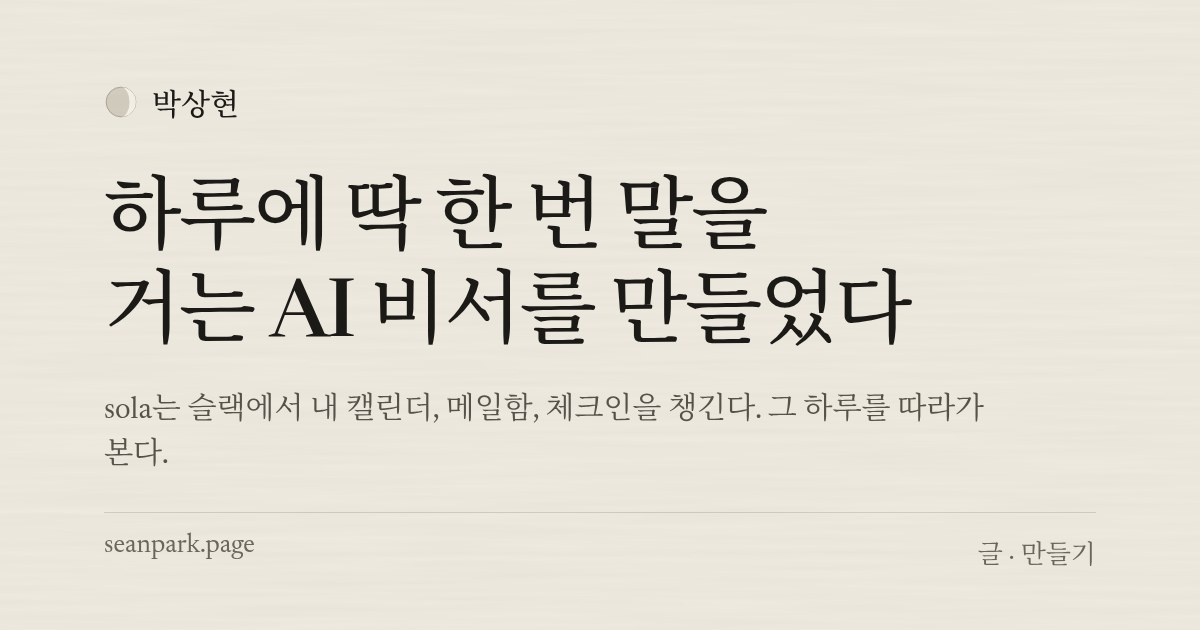
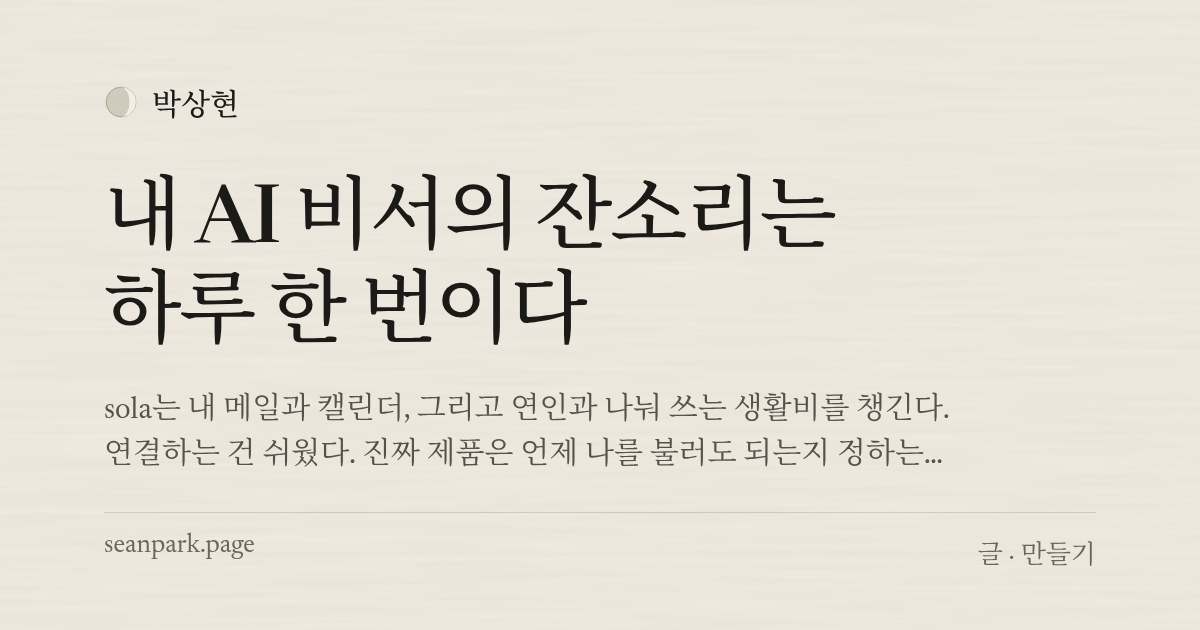
sola: write the piece (EN + KO), a real redacted day, share cards
Title is now the claim: one reminder a day. The day is Fri 20 Nov from Slack, names and two lines removed.

diff --git a/src/data/site.ts b/src/data/site.ts
@@ -76,13 +76,11 @@ export const BAZE = {
   result: 'From 28 universities in October 2025 to more than 100 a year later, and 600+ institutions in all. 750,000 people have used it. In September 2026 they ran about 48 times as many tokens as a year before, and every university that rolled it out campus-wide renewed.',
 };
 
-// sola's illustrative day (the agent piece). Replace with a real, redacted one before publishing.
+// sola's day: a real one (Fri 20 Nov 2026, from Slack), with names and two lines taken out.
 export const SOLA_DAY = [
-  { t: '07:43', who: 'sola · inbox', m: 'Archived 23 promos, labelled 41. Two recruiter emails worth answering. Drafts are ready; nothing sent.' },
-  { t: '09:17', who: 'sola · morning', m: "Clear until 4, rain after. Tonight's one task: a 20-minute call. Have your card ready." },
-  { t: '13:02', who: 'me', m: "split last month's shared expenses", me: true },
-  { t: '13:03', who: 'sola', m: "Logged 38 rows to the shared sheet. Two merchants I didn't recognise; I asked about them in the sheet." },
-  { t: '19:53', who: 'sola · weekly', m: "Next week looks heavy: Thursday has six meetings. I'd keep it to two personal tasks." },
+  { t: '07:46', who: 'sola · inbox', m: "Archived 44 promos, newsletters and notices. An old side project's database still lets anyone read it, and the alert came again. I can draft locked-down rules for you to review." },
+  { t: '09:17', who: 'sola · morning', m: "Two friends fly home today. Nothing planned with you. Overdue: Wednesday's bookings block. Done, or move to Sat 09:30? Tomorrow 3pm: grandma's birthday lunch. Venue still TBD. Where should I put it on the calendar?" },
+  { t: '20:43', who: 'sola · family', m: "Friday night, a quick call to your parents in Jeju would be nice. Even a short one counts. If they know about Grandma's birthday lunch tomorrow, it's an easy thing to bring up." },
 ];
 
 // ── 한국어 (/ko/). The same facts, said in Korean. Names of roles and products stay as they are.
@@ -110,11 +108,9 @@ const BAZE_KO = {
   result: '2025년 10월 28곳이던 대학이 1년 만에 100곳을 넘었어요. 기관 전체로는 600곳이 넘어요. 지금까지 75만 명이 썼어요. 2026년 9월 토큰 사용량은 1년 전의 약 48배였고 캠퍼스 전체에 도입한 대학은 한 곳도 빠짐없이 재계약했어요.',
 };
 const SOLA_DAY_KO = [
-  { t: '07:43', who: 'sola · inbox', m: '프로모션 23통 보관, 41통 라벨 정리. 답장할 만한 리크루터 메일이 2통 있어요. 초안만 써 두고 보내진 않았어요.' },
-  { t: '09:17', who: 'sola · morning', m: '4시까지 맑다가 그 뒤로 비. 오늘 밤 할 일은 20분짜리 통화 하나예요. 카드 챙겨 두세요.' },
-  { t: '13:02', who: '나', m: '지난달 같이 쓴 돈 나눠 줘', me: true },
-  { t: '13:03', who: 'sola', m: '공유 시트에 38건 기록했어요. 모르는 가맹점 두 곳은 시트에 질문으로 남겨 뒀어요.' },
-  { t: '19:53', who: 'sola · weekly', m: '다음 주는 빡빡해 보여요. 목요일에만 회의가 여섯 개예요. 개인 일은 두 개까지만 잡는 게 좋겠어요.' },
+  { t: '07:46', who: 'sola · 메일함', m: '프로모션, 뉴스레터, 공지 44통 보관했어요. 예전 사이드 프로젝트 DB가 아직 아무나 읽을 수 있게 열려 있다는 알림이 또 왔어요. 잠근 규칙을 초안으로 써 둘 테니 검토해 주세요.' },
+  { t: '09:17', who: 'sola · 아침', m: '친구 둘이 오늘 귀국해요. 같이 잡힌 일정은 없어요. 밀린 일: 수요일 예약 블록. 끝났어요, 아니면 토요일 9시 30분으로 옮길까요? 내일 오후 3시 할머니 생신 점심, 장소는 아직 미정이에요. 캘린더에 어디로 적을까요?' },
+  { t: '20:43', who: 'sola · 가족', m: '금요일 밤이니 제주 부모님께 잠깐 전화해 보면 좋겠어요. 짧아도 괜찮아요. 내일 할머니 생신 점심 얘기를 꺼내면 자연스러울 거예요.' },
 ];
 
 /** Everything above that changes with the language. */

diff --git a/src/lib/living.ts b/src/lib/living.ts
@@ -13,7 +13,7 @@ const LIVE: Record<Lang, Record<string, string>> = {
     sparkle: `The ${spark} icon was a shrug`,
     'data-model': `The <span class="ent" data-e="a">use cases</span> are in the <span class="ent" data-e="b">data model</span>`,
     chemistry: `Team ${chem('chemistry')} is something you can design`,
-    sola: `I built an AI chief-of-staff that talks <span class="once">once a day<span class="bub"></span></span>`,
+    sola: `My AI chief-of-staff gets <span class="once">one reminder a day<span class="bub"></span></span>`,
     'this-site': `Paper, grain and a m<span class="mo" data-moon></span><span class="mo" data-moon></span>n`,
   },
   ko: {
@@ -21,7 +21,7 @@ const LIVE: Record<Lang, Record<string, string>> = {
     sparkle: `${spark} 아이콘은 사실 ‘글쎄요’였다`,
     'data-model': `<span class="ent" data-e="a">유스케이스</span>는 <span class="ent" data-e="b">데이터 모델</span> 안에 있다`,
     chemistry: `팀 ${chem('케미스트리')}도 설계할 수 있다`,
-    sola: `하루에 <span class="once">딱 한 번<span class="bub"></span></span> 말을 거는 AI 비서를 만들었다`,
+    sola: `내 AI 비서의 잔소리는 <span class="once">하루 한 번<span class="bub"></span></span>이다`,
     // no o's to fill in Korean: tonight's moon follows 달 instead
     'this-site': `한지, 결, 그리고 달<span class="mo end" data-moon></span>`,
   },

diff --git a/src/content/writing-ko/sola.md b/src/content/writing-ko/sola.md
@@ -1,18 +1,68 @@
 ---
-title: 하루에 딱 한 번 말을 거는 AI 비서를 만들었다
-dek: sola는 슬랙에서 내 캘린더, 메일함, 체크인을 챙긴다. 그 하루를 따라가 본다.
+title: 내 AI 비서의 잔소리는 하루 한 번이다
+dek: sola는 내 메일과 캘린더, 그리고 연인과 나눠 쓰는 생활비를 챙긴다. 연결하는 건 쉬웠다. 진짜 제품은 언제 나를 불러도 되는지 정하는 일이었다.
 lens: 만들기
-keywords: ["AI 비서", "슬랙 개인 AI 에이전트", "하루 한 번 메시지"]
+keywords: ["AI 비서", "슬랙 개인 AI 에이전트", "하루 한 번 메시지", "AI 에이전트 알림 설계"]
+tldr: "에이전트에게 메일함을 열어 주는 건 설정 문제였다. 제품은 언제 말을 거느냐였다. 잔소리는 하루 한 번, 실제로 일을 했으면 영수증 한 장, 그리고 실수는 하나하나 규칙으로, 코드로, 테스트로 바꿨다."
 ---
 
-## 계기
+10월 13일, AI 비서에게 아침에 그만 좀 연락하라고 했다. 두 번째로 한 말이었다.
 
-작성 예정: 이걸 처음 알아챈 순간.
+틀린 말을 한 건 아니었다. 다가오는 결제일, 2주 뒤 생일, 묵어 가는 할 일. 다 맞는 얘기였다. 그냥 너무 많았다. 출근 준비하는 아침 9시 무렵에 줄줄이 왔고, 하나하나가 내가 하겠다고 한 적 없는 작은 결정이었다.
 
-## 주장
+그래서 sola에게 규칙을 하나 줬다. 잔소리는 하루 한 번.
 
-작성 예정: 하고 싶은 말과 그 근거.
+## sola가 뭐냐면
 
-## 다시 한다면
+sola는 내 생활을 챙기려고 Claude Code 위에 직접 만든 슬랙 봇이다. 캘린더와 지메일을 읽고, 메일은 초안만 쓰고 보내지는 않는다. 연인과 나눠 쓰는 생활비 시트를 정리하고, 기억은 마크다운 파일로 git 저장소에 남긴다. 2026년 7월 4일에 시작해서 지금까지 커밋이 490개쯤 된다.
 
-작성 예정: 지금 다시 한다면 바꿀 것.
+솔직히 여기까지는 쉬웠다. 에이전트에게 메일함을 열어 주는 건 설정 문제다. 어려운 건 그다음이다. 언제 말을 걸지, 무슨 말을 할지, 묻지 않고 무엇까지 해도 되는지.
+
+## 잔소리는 합치고, 일은 합치지 않는다
+
+sola는 매일 아침 9시 17분에 메시지를 딱 하나 보낸다. 날씨는 신경 쓸 일이 있을 때만 넣고, 오늘 밤 할 일 하나, 밀린 일, 질문은 많아야 하나. 채울 내용이 없는 줄은 아예 안 나온다. 새로운 종류의 알림이 생겨도 메시지를 따로 만들지 않고 이 메시지에 한 줄을 더한다.
+
+이 규칙의 첫 버전은 뭔가를 망가뜨렸다. 전부 아침 메시지 하나로 합치다가 메일함 정리 루틴까지 같이 묶어 버린 것이다. 그런데 그건 잔소리가 아니었다. 메일을 보관하고 라벨을 붙이는 일을 하고 있었다. 사흘 동안 메일은 하나도 정리되지 않았고 아무도 알려 주지 않았다. 알려 줄 녀석을 내가 방금 입 다물게 했으니까.
+
+그래서 규칙 뒤에 한 줄이 붙었다.
+
+**잔소리는 합치고, 일은 합치지 않는다.**
+
+실제로 일을 하는 루틴은 자기 시간을 따로 갖고, 그 메시지는 한 일에 대한 영수증이 된다. 아침 7시 43분 메일함 메시지는 잔소리가 아니다. 「프로모션과 뉴스레터 44통 보관」이라고 적고, 내가 봐야 할 메일 두세 통만 짚어 준다.
+
+이제 모든 메시지는 질문 하나를 통과해야 한다. 나한테 뭘 하라는 건가, 아니면 자기가 뭘 했다는 건가. 하라는 말은 아껴 쓰고, 했다는 말은 짧게 쓴다.
+
+## 불만 하나가 규칙 하나가 된다
+
+sola에게 프롬프트를 짠다는 느낌은 별로 없다. 팀원에게 피드백을 주듯 말하면 sola가 그걸 이유와 함께 규칙으로 적어 둔다. 몇 개만 옮겨 보면 이렇다. 따옴표 안은 그때 내가 영어로 한 말을 옮긴 것이다.
+
+- 「답을 훨씬 짧고 검토하기 쉽게 해 줘. 내가 궁금한 건 뭘 했는지, 왜 했는지, 나보고 뭘 하라는 건지야.」 그 뒤로 모든 보고는 세 줄이다. 한 일, 이유, 내가 할 일.
+- 「교호가 어딘지 확인은 한 거야?」 그 뒤로 장소가 있는 약속은 주소, 영업시간, 이동 시간까지 찾아보고 캘린더에 「지금 출발」 일정을 따로 넣는다.
+- 「끝났다고 내가 말 안 하면 계속 챙겨 줘야지.」 그 뒤로 밀린 일은 내가 끝났다고 할 때까지 밀린 일로 남는다.
+- 「이런 건 나한테 가져오기 전에 네가 판단하면 안 돼?」 그 뒤로 질문 대신 결정을 가져온다.
+
+이런 규칙이 이제 열다섯 개쯤 파일 하나에 모여 있다. 읽어 보면 신입 온보딩 문서 같은데, 제품의 대부분이 거기 들어 있다.
+
+## 규칙으로는 안 될 때
+
+11월 16일 아침, sola는 같은 종류의 실수를 세 번 했다. 2분 뒤에 내가 이미 다시 보낸 메일을 반송됐다고 알렸고, 보내지도 않은 초안 세 통을 「보냄」이라고 했고, 실제 메일함 대신 예전 메모를 믿었다. 내가 보낸 답은 이게 다였다. 「왜 자꾸 틀려??」
+
+규칙을 하나 더 늘린다고 고쳐질 일이 아니었다. 규칙은 이미 다 읽은 상태였다. 문제는 도구가 추측할 여지를 줬다는 데 있었다. 메일 검색 결과에 보낸 메일인지, 초안인지, 받은 메일인지가 안 나왔다. 그래서 코드를 고쳤다. 이제 지메일 도구는 메일마다 상태를 붙이고, 반송된 메일을 나중에 다시 보냈으면 그것까지 알아챈다. 메일함 요약도 올리기 전에 항목 하나하나를 지메일과 대조한다.
+
+그다음엔 내가 잡아낸 실수를 전부 재현 테스트로 만들었다. 같은 상황을 새 에이전트에게 다시 돌리고, 다른 에이전트가 채점한다. 지금까지 아홉 개다. 마지막으로 돌렸을 때 일곱 개는 통과했고 두 개는 절반만 맞았다. 두 개가 틀린 방식은 똑같았다. 근거 없이 자신 있게 쓴 문장. 한 번은 메일에 있지도 않은 말을 인용까지 해 가며 지어냈다.
+
+지금 쫓고 있는 버그가 그거다.
+
+## 비용
+
+아침 메시지 한 번에 모델 비용이 40센트쯤 든다. 저녁에 부모님께 전화하라고 챙기는 메시지는 29센트다. 정해진 시간에 도는 작업은 싼 모델을 쓰고, 내가 답을 달면 그 스레드부터 큰 모델로 바뀐다. 전부 메모리 2GB짜리 서버 한 대에서 돈다. 빌드나 렌더링처럼 무거운 일은 GitHub Actions로 넘긴다. sola가 자기 서버에 빌드 도구를 직접 설치했다가 메모리가 바닥나서 자기 답장까지 날려 먹은 적이 한 번 있어서다.
+
+## 아직 못 푼 것
+
+sola가 나를 움직이게 할 수는 없다. 언젠가 예약해야지 하는 진료 몇 개가 10월 5일부터 목록에 있고, 벌써 네 번 미뤘다. 매일 아침 정확한 시간에 정확한 내용으로 메시지에 뜨는데, 나는 매일 아침 그냥 넘긴다.
+
+잔소리를 더 잘한다고 해결될 일이 아니다. 일을 더 작게 쪼개면 될지도 모른다. 그래서 다음 단계는 이렇다. 예약할 일이 생기면 sola가 브라우저 에이전트가 채울 수 있는 요청서를 써 두고, 결제 버튼 앞에서 멈춘다.
+
+내일 아침 9시 17분에도 sola는 또 말할 것이다. 그리고 그 말이 맞을 것이다.
+
+*sola가 자기 기록과 내가 준 피드백을 바탕으로 초안을 쓰고, 내가 고쳤다.*

diff --git a/src/content/writing/sola.md b/src/content/writing/sola.md
@@ -1,21 +1,72 @@
 ---
-title: I built an AI chief-of-staff that talks once a day
-dek: sola runs my calendar, inbox and check-ins from Slack. Here's a day of it.
+title: My AI chief-of-staff gets one reminder a day
+dek: sola reads my mail, my calendar and the expenses I share with my partner. Wiring that up was the easy part. The product is deciding when it gets to interrupt me.
 lens: Building
 order: 8
-keywords: ["AI chief of staff", "personal AI agent in Slack", "one message a day"]
+stage: essay
+updated: 2026-11-22
+keywords: ["AI chief of staff", "personal AI agent in Slack", "one message a day", "designing when an AI agent interrupts you"]
 specimen: agent
+tldr: "Giving an agent my inbox was a config problem. The product was when it may speak: one reminder a day, a receipt for any real work, and every mistake turned into a rule, then a code fix, then a test."
 ---
 
-## The setup
+On October 13 I asked my AI assistant to stop messaging me in the morning. It was the second time I'd asked.
 
-Placeholder: the situation that made you notice this.
+It wasn't wrong about anything. Every ping was true: a bill coming up, a birthday in two weeks, a to-do going stale. There were just a lot of them, around 9am, while I was getting to work. Each one was a small decision I hadn't asked to make.
 
-## The argument
+So sola got one rule: one reminder a day.
 
-Placeholder: the claim, and why it holds.
+## What sola is
 
-## What I'd do differently
+sola is a Slack bot I built for my own life, on top of Claude Code. It reads my calendar and Gmail, writes email drafts but never sends them, keeps the expense sheet I share with my partner, and remembers things in a git repo full of markdown files. I started it on July 4, 2026, and it's had about 490 commits since.
 
-Placeholder: what you would change now.
+Honestly, that part was easy. Giving an agent access to your inbox is a config problem. What's hard is everything after that: when it speaks, what it says, and what it does without asking.
 
+## Reminders merge. Work doesn't.
+
+At 9:17 every morning sola posts one message: the weather if it matters, tonight's one task, what's overdue, and at most one question. A line only shows up if there's something to put in it. When a new kind of reminder comes along, it doesn't get its own message. It becomes a line in this one.
+
+The first version of that rule broke something. When I folded everything into the morning message, the inbox routine went with it. But that routine wasn't a reminder. It archived and labelled my mail. For three days nothing got sorted, and nothing told me, because the thing that would have told me was the thing I'd just silenced.
+
+So the rule got a second half.
+
+**Reminders merge. Work doesn't.**
+
+A routine that does real work keeps its own slot, and its message is a receipt for what it did. The 7:43 inbox message isn't a nag. It says "archived 44 promos and newsletters" and lists the two or three emails that need me.
+
+Now every message has to pass one test: is it asking me to do something, or telling me what it did? Asks get rationed. Receipts stay short.
+
+## Every complaint becomes a rule
+
+I don't really prompt sola. I give it notes, the way I'd give notes to someone on my team, and it writes each one down as a rule with the reason attached. Here are a few, in my words at the time:
+
+- "make sure your responses to me are a lot shorter and easier to review. I really care what you did, why, and what you recommend I do with it." Now every report has three parts: did, why, you should.
+- "did you check where kyoho was and everything?" Now any plan at a named place gets looked up: address, hours, travel time, plus a "leave now" event on my calendar.
+- "If I don't tell you it's been done, we should probably keep pushing it." Now overdue stays overdue until I say otherwise.
+- "Why don't you be the judge of these types of things before you bring them to me?" Now it brings me decisions, not questions.
+
+There are about fifteen of these now, in one file. It reads like an onboarding doc for a new hire, and it's most of the product.
+
+## When a rule isn't enough
+
+On November 16 sola got the same kind of thing wrong three times in one morning. It flagged a bounced email that I'd fixed two minutes later, called three unsent drafts "sent", and trusted an old note over my actual inbox. All I wrote back was "You keep getting things wrong. Why??"
+
+Another rule wouldn't have fixed that. It had read the rules. The problem was that its tools let it guess: email search came back without saying whether a message was sent, a draft or received. So the fix went into code. The Gmail tool now labels each message's state and notices when a later email already fixed a bounce. The inbox digest also checks each item against Gmail before it's allowed to post.
+
+Then every mistake I'd caught became a replay: the same situation, run again on a fresh agent, with a second agent grading it. There are nine so far. In the last run seven passed and two were partial, and both partials failed the same way: a confident sentence with nothing behind it. One replay made up a quote from an email that doesn't say that.
+
+That's the bug I'm still chasing.
+
+## What it costs
+
+The morning message costs about 40 cents in model time. The evening nudge to call my parents costs 29. Timed runs use a cheaper model, and when I reply, the thread switches to the bigger one. It all runs on a single machine with 2GB of memory. Heavy jobs like builds and renders go to GitHub Actions, because the one time sola installed a build toolchain on its own machine, it ran out of memory and took its own reply down with it.
+
+## What's still open
+
+sola can't make me do the thing. A few appointments I keep meaning to book have been on the list since October 5, and they've been moved four times. Every morning they're in the message, correct and on time, and every morning I scroll past.
+
+Nagging better won't fix that. Making the task smaller might. So next, when a booking comes up, sola will write a brief that a browser agent can fill in, and it'll stop at the pay button.
+
+Tomorrow at 9:17 it'll tell me again. It'll be right.
+
+*Drafted by sola from its own logs and my notes to it; edited by me.*
